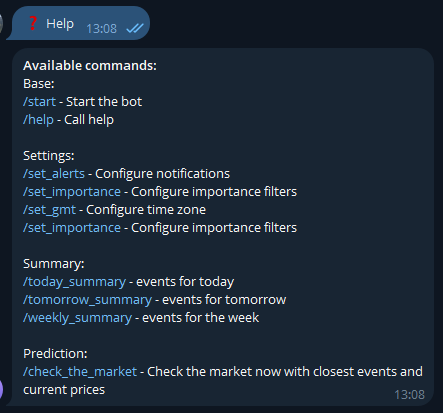
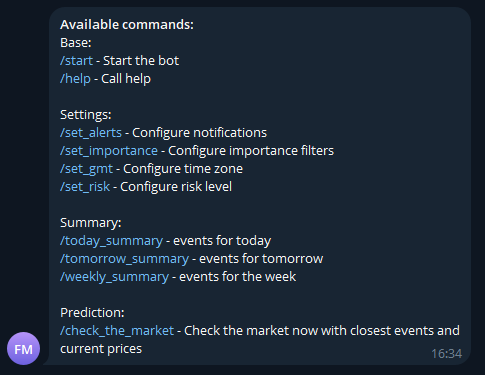
Modify README

Changed region(s): [[0.0, 0.0, 0.7043, 0.792], [0.0, 0.8213, 0.9684, 0.9973]]

diff --git a/bot/commands/base.py b/bot/commands/base.py
@@ -50,7 +50,7 @@ Settings:
 /set_alerts - Configure notifications
 /set_importance - Configure importance filters
 /set_gmt - Configure time zone
-/set_importance - Configure importance filters
+/set_risk - Configure risk level
 
 Summary:
 /today_summary - events for today

diff --git a/README.md b/README.md
@@ -1,11 +1,11 @@
 # FX Volatility Alert Bot
-
+ 
 A Telegram bot that warns FX traders **~1 hour before scheduled macro news events** when the models expect elevated volatility — wide ranges, multiple direction reversals, or a swing-failure (false breakout) pattern. Built end-to-end: data collection, feature engineering, model training, and a production Telegram bot.
-
+ 
 > The idea: before high-impact news (NFP, rate decisions, CPI, etc.) the market often either makes a large, choppy move in both directions or fakes a breakout and reverses. Knowing this in advance means "don't trade this hour" or "trade the range carefully, expect fakeouts."
-
+ 
 ## What it does
-
+ 
 - Pulls the economic calendar (news events, importance, forecast/previous/actual) from **TradingView**.
 - Pulls OHLC price data for major USD pairs from **Twelve Data**.
 - An hour before each scheduled news event (or combination of events), a scheduled job builds live features and runs them through a set of CatBoost models to forecast:
@@ -18,155 +18,151 @@ A Telegram bot that warns FX traders **~1 hour before scheduled macro news event
 - Also supports daily/weekly calendar digests, per-user importance filters, and timezone-aware delivery.
 
 ## Why it's interesting
-
+ 
 - Full ML lifecycle, not a notebook demo: SQL-backed feature store → offline training with walk-forward (time-series) cross-validation → calibrated probabilities → saved model artifacts → live inference inside a scheduled production job.
 - Multiple target types trained on the same feature set with CatBoost: quantile regression, ordinal regression, binary and multiclass classification.
-- Class-imbalance handling and probability calibration (isotonic/Platt) tuned for an alerting use case, where recall matters more than precision (missing a volatility spike is worse than a false alarm).
+- Class-imbalance handling and per-target threshold tuning (maximizing F0.5/F1/F2/F3 depending on the alerting use case — recall matters more than precision when missing a volatility spike is worse than a false alarm).
 - Experiment tracking with MLflow across dozens of training runs per target/horizon.
 - A real async Telegram bot (aiogram 3.x) with FSM-based onboarding, a job scheduler that re-plans itself daily around the next day's news calendar, and a normalized SQLAlchemy schema (events, prices, features, user settings).
 
 ## Architecture
-
+ 
 ```
 News (TradingView)  ─┐
                       ├──▶  Feature pipeline  ──▶  CatBoost models  ──▶  chaos_score / SFP / range / regime
-Prices (Twelve Data) ─┘             │
-                                    ▼
+Prices (Twelve Data) ─┘              │
+                                     ▼
                           SQLAlchemy DB (events, prices, features)
-                                    │
-                                    ▼
+                                     │
+                                     ▼
                      APScheduler jobs (weekly recalculation of
                      "1h before next event" triggers per pair)
-                                    │
-                                    ▼
+                                     │
+                                     ▼
                        aiogram Telegram bot ──▶  user alerts
 ```
-
+ 
 ## Tech stack
-
+ 
 | Layer | Tools |
 |---|---|
 | Data sources | TradingView (economic calendar), Twelve Data (OHLC prices) |
 | Storage | SQLAlchemy ORM + SQL database (events, prices, engineered features, user settings) |
 | Feature engineering | pandas, custom `sklearn`-style transformers (event aggregation, price/target featurizers, lagged rolling stats) |
-| Modeling | CatBoost (binary, multiclass, ordinal, multi-quantile regression), scikit-learn, walk-forward CV, isotonic/Platt calibration |
+| Modeling | CatBoost (binary, multiclass, ordinal, multi-quantile regression), scikit-learn, walk-forward CV |
 | Experiment tracking | MLflow |
 | Bot | aiogram 3.x (async, FSM), APScheduler (cron + one-off jobs) |
 | Language | Python (async/await throughout) |
-
+ 
 ## Modeling approach
+ 
+Data is aggregated to an hourly grid per currency pair, joined with a rolling window of nearby news events (importance, category, source, time-to-event), and enriched with lagged rolling statistics of past outcomes for the same event type. 
+For each binary target, an operating threshold is selected on OOF predictions by maximizing F0.5/F1/F2/F3 depending on the use case, rather than using a fixed 0.5 cutoff.
+ 
 
-Data is aggregated to an hourly grid per currency pair, joined with a rolling window of nearby news events (importance, category, source, time-to-event), and enriched with lagged rolling statistics of past outcomes for the same event type. Roughly a dozen targets are trained per experiment, all on the same feature matrix, each solving a different piece of "what will the market do in the next N hours":
-
-- `trg_future_range_{1,3,6,24}h` — quantile regression (p10/p50/p90) on the expected high-low range
-- `trg_is_chaos_{1,3,6,24}h` — binary classification: will the range exceed the pair's own ATR
-- `trg_dir_changes` — ordinal regression: how many times price reverses direction (swing count)
-- `trg_direction_{1,2}day` — multiclass: trend vs. flat regime
-- `trg_is_sfp` — binary classification: swing failure pattern (false breakout that reverses)
-- `trg_big_doji` / `trg_is_extremum_breakout` — binary classification: spike / range-extremum breakout detection
-
-Validation uses **expanding-window, time-based splits** (no shuffling — this is time series) with quarter-based folds, and results are logged to MLflow per fold. Example in-sample metrics from the notebook:
-
-- Chaos prediction (24h horizon): **Accuracy 0.887, AUC 0.945**
-- Trend/flat regime: **Accuracy 0.895, AUC 0.962**
-- Range prediction (24h, ordinal-style range bucket): MAE 0.74, Spearman 0.57
-
-*(These are training-run snapshots from experimentation, not held-out production performance — see [Limitations](#limitations--next-steps).)*
-
+Dataset: 
+- 7 major USD pairs (EURUSD, GBPUSD, USDCHF, USDJPY, USDCAD, AUDUSD, NZDUSD)
+- 2010-05-07–2026-05-31 of hourly OHLC history
+- 2013-01-04-2026-05-31 of events data (Count of events: 100984)
+- 6 expanding-window walk-forward folds (validated on quarters)
+ 
+Roughly a dozen targets are trained per experiment, all on the same feature matrix, each solving a different piece of "what will the market do in the next N hours":
+ 
+- `trg_future_range_{1,3,6,24}h` — quantile regression (p10/p50/p90) on the expected high-low range → shown in the bot/README as **Future Range**
+- `trg_is_chaos_{1,3,6,24}h` — binary classification: will the range exceed the pair's own ATR → shown as **Chaos**
+- `trg_dir_changes` — ordinal regression: how many times price reverses direction (swing count) → shown as **Direction Changes**
+- `trg_regime_{1,2}day` — multiclass: trend vs. flat vs. no-clear-regime (see [Regime Classifier](#3-regime-classifier-trend--flat--none) below for what "None" means) → shown as **Regime**
+- `trg_is_sfp` — binary classification: swing failure pattern (false breakout that reverses) → shown as **Swing Failure Pattern**
+- `trg_is_big_doji` — binary classification: large-bodied bar with a large wick → shown as **Big Spike**
+- `trg_is_extremum_breakout` — binary classification: breakout of the 21-period channel from both sides → shown as **Double Extremum Breakout**
+Validation uses **expanding-window, time-based splits** (no shuffling — this is time series) with quarter-based folds, and results are logged to MLflow per fold. All performance numbers reported below are out-of-fold walk-forward metrics — see [Model Metrics](#model-metrics) for the full breakdown, and [Limitations](#limitations--next-steps) for what's not yet validated on a held-out period.
+ 
 ## Repository structure
-
+ 
 ```
 .
-├── main.py                          # Main entrypoint point (create database, run bot)
-├── config.py                        # Configuration / secrets loading
-├── training_functions.py            # Walk-forward CV training helpers (quantile / classification / ordinal)
+├── main.py                      # Main entrypoint (create database, run bot)
+├── config.py                    # Configuration / secrets loading
+├── training_functions.py        # Walk-forward CV training helpers (quantile / classification / ordinal)
 ├── bot/
-    ├── app.py                       # Bot entrypoint: handlers, scheduler jobs, alert composition
-│   ├── scheduler.py                 # Computes "next event − 1h" trigger times, weekly recalculation job
-│   └── feature_engineer.py          # Time helpers for scheduling
+│   ├── app.py                   # Bot entrypoint: handlers, scheduler jobs, alert composition
+│   ├── scheduler.py             # Computes "next event − 1h" trigger times, weekly recalculation job
+│   └── feature_engineer.py      # Time helpers for scheduling
 ├── ml/
-│   ├── predictor.py                 # Loads trained models, runs live inference (FxRangePredictor)
-│   ├── news_featuring.py            # News event feature pipeline (aggregation, rounding, one-hot)
-│   ├── price_featuring.py           # Price/technical feature pipeline
-│   └── preprocessing.py             # sklearn-style transformers used in the notebook and in production
+│   ├── predictor.py             # Loads trained models, runs live inference (FxRangePredictor)
+│   ├── news_featuring.py        # News event feature pipeline (aggregation, rounding, one-hot)
+│   ├── price_featuring.py       # Price/technical feature pipeline
+│   └── preprocessing.py         # sklearn-style transformers used in the notebook and in production
 ├── db/
-│   ├── models.py                    # SQLAlchemy models: Events, Prices, UserSettings, ...
-│   ├── database.py                  # Engine/session setup
-│   └── data_handler.py              # DB read/write and calendar refresh logic
-├── models/                          # (In .gitignore)
-     ├── ml/                         # Saved (joblib) CatBoost models
-│    └── feature_transformers/       # Saved (joblib) fitted transformers used at inference time
+│   ├── models.py                 # SQLAlchemy models: Events, Prices, UserSettings, ...
+│   ├── database.py               # Engine/session setup
+│   └── data_handler.py           # DB read/write and calendar refresh logic
+├── models/                       # (In .gitignore)
+│   ├── ml/                       # Saved (joblib) CatBoost models
+│   └── feature_transformers/     # Saved (joblib) fitted transformers used at inference time
 └── notebooks/
-     └── train_and_retrain_model.ipynb   # End-to-end training notebook: data → features → CatBoost models
+    └── train_and_retrain_model.ipynb   # End-to-end training notebook: data → features → CatBoost models
 ```
-
+ 
 ## How it runs
-
+ 
 1. On startup, tables are created (SQLAlchemy) if they don't exist yet: events, prices, engineered features, user settings.
 2. A **weekly job** (Sunday 18:00 UTC) refreshes the upcoming news calendar and price history.
 3. A **daily job** (23:59 UTC) rebuilds the next day's schedule: for every pair/event combination, it schedules a one-off job at *event time − 1 hour* that will build live features and run the models.
 4. When that job fires, the bot builds the current feature snapshot, runs it through the CatBoost models, computes range forecasts / chaos flags / SFP probability / regime, and pushes a formatted alert to subscribed users — filtered by their importance and timezone preferences.
 5. Users can also request daily/weekly calendar digests and a manual "check the market now" forecast at any time.
-
 ## Telegram commands
-
+ 
 ```
-/start               — onboarding
-/set_alerts          — toggle daily / weekly / volatility alerts
-/set_importance      — filter news by importance (low/medium/high)
-/set_gmt             — set timezone for alert delivery
-/today_summary       — today's news events
-/tomorrow_summary    — tomorrow's news events
-/weekly_summary      — this week's news events
-/check_the_market    — run a live forecast on demand
+/start                — onboarding
+/set_alerts           — toggle daily / weekly / volatility alerts
+/set_importance       — filter news by importance (low/medium/high)
+/set_gmt              — set timezone for alert delivery
+/set_risk             — choose the alerting risk profile (favor precision vs. recall — see Model Metrics)
+/today_summary        — today's news events
+/tomorrow_summary     — tomorrow's news events
+/weekly_summary       — this week's news events
+/check_the_market     — run a live forecast on demand
 ```
-
+ 
 ### Start:
 Command: /start
-
+ 
 ![start.png](imgs/start.png)
-
+ 
 ### Main keyboard (available after "start" command)
 ![main_keyboard.png](imgs/main_keyboard.png)
-
+ 
 ### Help (/help)
 ![help.png](imgs/help.png)
-
+ 
 ### Set GMT (/set_gmt)
-You can set your local GMT to show events corresponding to your local time. 
+You can set your local GMT to show events corresponding to your local time.
 ![set_timezone.png](imgs/set_timezone.png)
-
+ 
 ### Set event importance to show (/set_importance)
 You can set the importance of events, if you want to see other, less important events.
-
+ 
 ![importance_settings.png](imgs/importance_settings.png)
-
+ 
 ### Events summary (example for "today_summary" here)
 Shows the events summary for today (tomorrow / on the week).
-
+ 
 ![today_summary.png](imgs/today_summary.png)
-
+ 
 ### Forecast (/check_the_market)
-The button "Make a forecast" runs all fitted models, that were trained before and shows forecast 
-for all supported tickers.
-
-Predictions to show:
-- Future range for 1 hour might be greater 4 ATR
-- Future range for 24 hours might be greater it's daily ATR
-- Regime: Shows Trend / Flat for ticker and the value of future predicted swings
-- Noise:
-  - Swing Failure Pattern (False break out and the price goes in the different direction)
-  - Double extremum breakout (The price might break out in the channel (21 period) from both sides)
-  - Big Spike (The big bar with a big wick)
-  - Chaos (If the sum of separate ranges are way greater than the total one)
-
+The "Make a forecast" button runs all trained models and returns a forecast for every supported pair:
+expected future range, regime (trend/flat + predicted swing count), and any detected noise 
+pattern (SFP, double extremum breakout, big spike, chaos). 
+See [Model Metrics](#model-metrics) below for what each of these means and how reliable each one is.
+ 
 ![do_predictions.png](imgs/do_predictions.png)
-
----
-
+ 
+--- 
+ 
 ## Model Metrics
  
-The bot relies on five models, each covering a different part of the forecast. Below: what each model predicts, key metrics, and honest limitations.
+The bot relies on five models, each covering a different part of the forecast. Below: what each model predicts, key metrics, and honest limitations. All metrics are out-of-fold results from walk-forward cross-validation (not in-sample training metrics).
  
 ### 1. Range Forecast (multi-quantile regression)
  
@@ -179,13 +175,10 @@ Predicts the future price range (quantiles 0.1 / 0.5 / 0.9) across horizons from
 | 6h  | 0.315 | 1.91 | 15.4% / 54.4% / 90.9% |
 | 24h | 0.360 | 2.14 | 14.3% / 53.8% / 90.5% |
  
-Interval width grows with the horizon, which is expected — the model correctly widens its uncertainty over longer windows. 
-The median and upper quantile (q0.9) are calibrated close to their targets. 
-
-**Limitation:** the lower quantile (q0.1) is under-calibrated at longer horizons 
-(actual coverage 14–15% vs. the target 10%), meaning the lower bound gets breached more 
-often than it should — worth accounting for if alerts are built off the lower bound.
-
+Interval width grows with the horizon, which is expected — the model correctly widens its uncertainty over longer windows. The median and upper quantile (q0.9) are calibrated close to their targets.
+ 
+**Limitation:** the lower quantile (q0.1) is under-calibrated at longer horizons (actual coverage 14–15% vs. the target 10%), meaning the lower bound gets breached more often than it should — worth accounting for if alerts are built off the lower bound.
+ 
 ### 2. Direction Changes (ordinal regression on number of reversals)
  
 | Metric | Value |
@@ -194,29 +187,25 @@ often than it should — worth accounting for if alerts are built off the lower 
 | Within-1 Accuracy | 74.4% |
 | MAE (rounded) | 1.05 |
  
-This is an ordinal target, so exact-match accuracy isn't the metric that matters most. 
-A QWK of 0.41 reflects moderate agreement with ground truth, while a Within-1 
-Accuracy of 74% shows the prediction is almost always within one class of the actual 
-value — practically useful for ranking "calm / moderate / volatile" conditions.
-
+This is an ordinal target, so exact-match accuracy isn't the metric that matters most. A QWK of 0.41 reflects moderate agreement with ground truth, while a Within-1 Accuracy of 74% shows the prediction is almost always within one class of the actual value — practically useful for ranking "calm / moderate / volatile" conditions.
+ 
 ### 3. Regime Classifier (Trend / Flat / None)
+ 
+"Trend" and "Flat" mean the model expects a directional move or a range-bound period, respectively, over the horizon. **"None" means neither condition was clearly met in the training labels** — a genuinely mixed or ambiguous period, not a missing value. It's the hardest class to call and the main source of error below.
+ 
 #### 1 Day:
 ![regime_1_day_overall_confusion_matrix.png](imgs/regime_1_day_overall_confusion_matrix.png)
-
+ 
 #### 2 Days:
 ![regime_2_days_overall_confusion_matrix.png](imgs/regime_2_days_overall_confusion_matrix.png)
-
-
+ 
 | Horizon | Trend F1 | Flat F1 | None F1 |
 |:---|:---|:---|:---|
 | 1 day  | 0.55 | 0.68 | 0.71 |
 | 2 days | 0.40 | 0.56 | 0.33 |
  
-At the 1-day horizon the model performs reliably: recall for Trend/Flat is high (0.81–0.82) — 
-it favors not missing a potential regime shift over precision. At 2 days, quality drops noticeably, 
-especially for the None class (recall 0.25). **This horizon should be flagged as experimental** and 
-not relied on as a primary signal until it's retrained.
-
+At the 1-day horizon the model performs reliably: recall for Trend/Flat is high (0.81–0.82) — it favors not missing a potential regime shift over precision. At 2 days, quality drops noticeably, especially for the None class (recall 0.25). **This horizon should be flagged as experimental** and not relied on as a primary signal until it's retrained.
+ 
 ### 4. Binary "noise" targets (Swing Failure Pattern, Double Extremum Breakout, Big Spike, Chaos)
  
 All four are rare events (base rate 3.7–15.3%), so ROC-AUC alone isn't very informative — the more telling number is PR-AUC lift over the base rate.
@@ -228,38 +217,36 @@ All four are rare events (base rate 3.7–15.3%), so ROC-AUC alone isn't very in
 | Chaos (24h) | 13.0% | 0.85 | 0.48 | ~3.7x | 0.43 / 0.58 |
 | Big Spike | 15.3% | 0.74 | 0.33 | ~2.1x | 0.27 / 0.70 |
  
-Double Extremum and SFP show the strongest discrimination relative to random guessing (~7x lift), 
-and Chaos offers the best-balanced precision/recall of the four. 
-**Big Spike is the weakest model in the group** (ROC-AUC 0.74, only a 2.1x lift), 
-and either needs further work or should carry less weight in the combined chaos_score / alerting logic.
-
-The operating threshold per model is chosen for the use case: `best_f0.5` when false alerts are costlier, 
-`best_f2`/`best_f3` when missing an event is costlier (you can set the risk level using the command `/set_risk`).
-
+Double Extremum and SFP show the strongest discrimination relative to random guessing (~7x lift), and Chaos offers the best-balanced precision/recall of the four. **Big Spike is the weakest model in the group** (ROC-AUC 0.74, only a 2.1x lift), and either needs further work or should carry less weight in the combined chaos_score / alerting logic.
+ 
+The operating threshold per model is chosen for the use case: `best_f0.5` when false alerts are costlier, `best_f2`/`best_f3` when missing an event is costlier — configurable per user via `/set_risk`.
+ 
 ---
 ## Setup
-
+ 
 > This is a personal/portfolio project — some config (API keys, DB connection) is environment-specific and not included here.
-
+ 
 ```bash
 git clone <repo-url>
 cd <repo>
 pip install -r requirements.txt
-
+ 
 # set environment variables (Telegram bot token, Twelve Data API key, DB URL, etc.)
 cp .env.example .env
-
+ 
 python app.py
 ```
-
+ 
 Model training/retraining is done separately in `train_and_retrain_model.ipynb`, which walks through: loading events and prices from the database, building the feature pipeline, and training/evaluating each CatBoost target with walk-forward cross-validation and MLflow tracking.
-
+ 
 ## Limitations & next steps
-
-- Metrics quoted above are from training-time evaluation; a held-out, chronologically-later test period and live paper-trading track record would make the case stronger.
+ 
+- Metrics above are out-of-fold walk-forward results, not a live, chronologically-later holdout — a forward-testing / paper-trading track record would make the case stronger.
+- The 2-day regime classifier is meaningfully weaker than the 1-day version and shouldn't be treated as a primary signal yet.
+- The Big Spike classifier is the weakest of the four binary "noise" targets and is a priority for feature work.
+- The lower quantile (q0.1) of the range forecast is under-calibrated at longer horizons.
 - No backtested P&L / strategy layer yet — the bot currently informs "expect volatility," not "take this trade."
 - Feature/model set is being iterated on (see the `V2` section of the notebook); next steps include tightening calibration for the SFP model and adding a lightweight backtest harness.
-
 ## Disclaimer
-
+ 
 This project is for educational and research purposes. It is not financial advice, and volatility forecasts are probabilistic, not guarantees.
